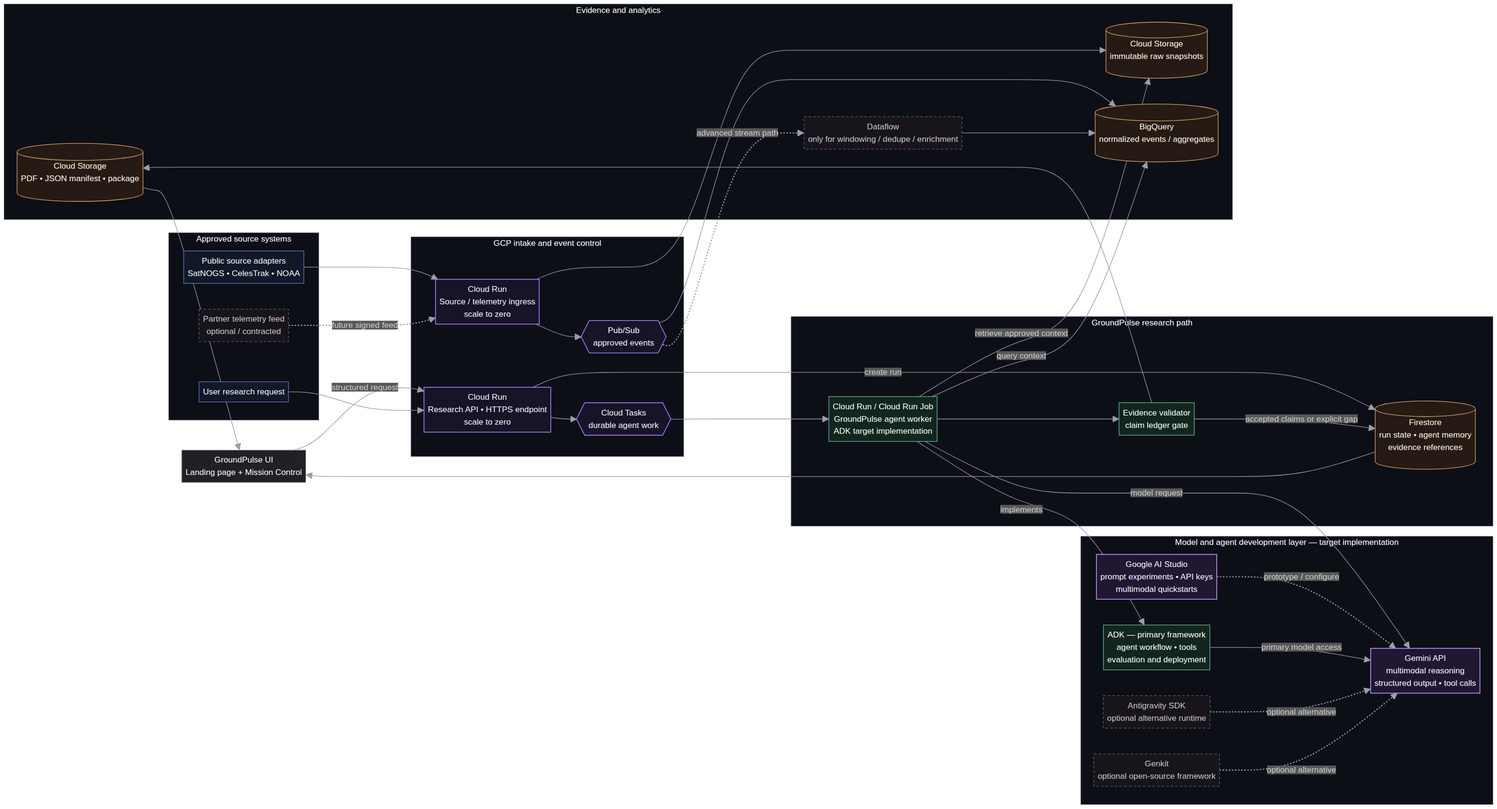
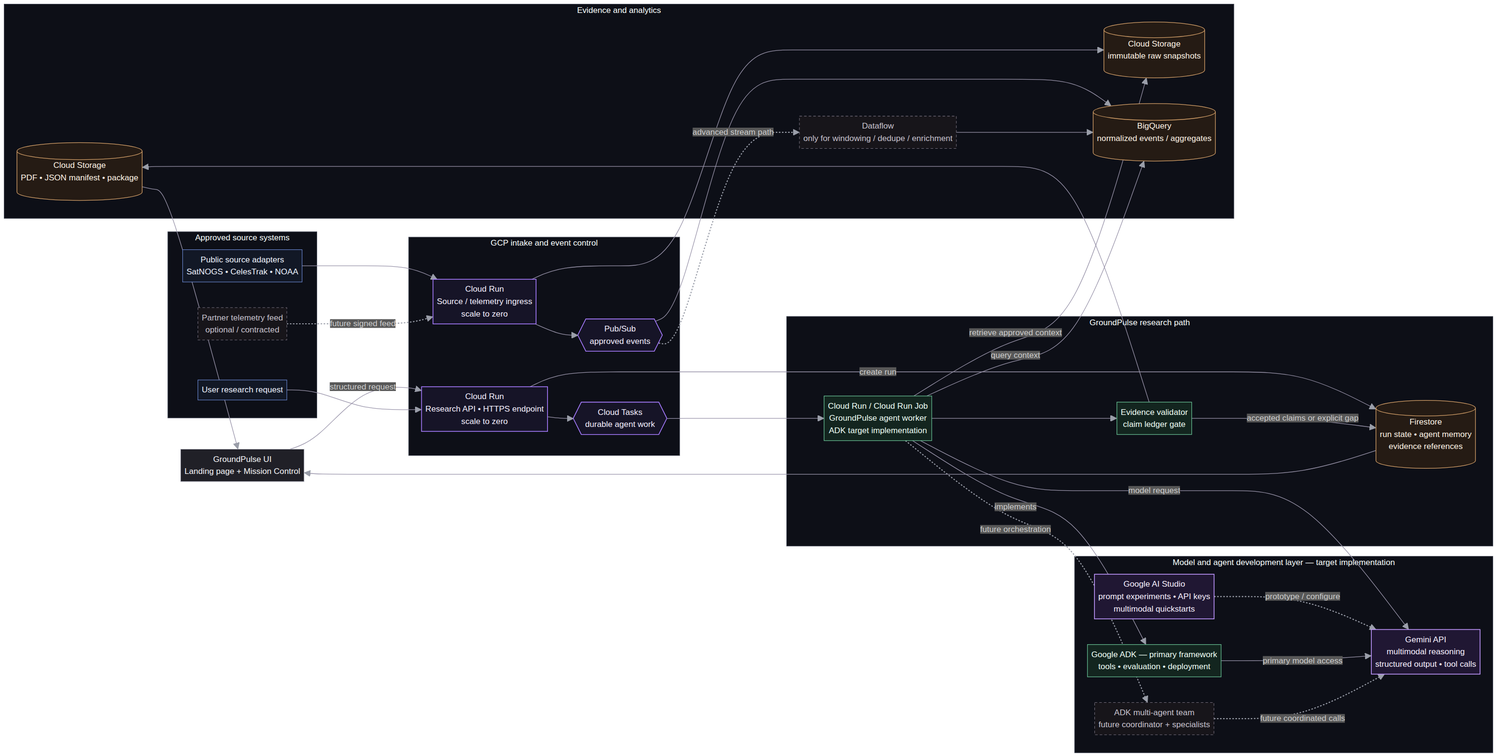
docs: make ADK the primary GroundPulse workflow

diff --git a/docs/SEPTEMBER_1_MVP_IMPLEMENTATION_PLAN.md b/docs/SEPTEMBER_1_MVP_IMPLEMENTATION_PLAN.md
@@ -1,41 +1,40 @@
-# GroundPulse: September 1 MVP Implementation Plan
+# GroundPulse: September 1 ADK MVP Implementation Plan
 
-**Status:** Deadline-focused implementation plan, not evidence of a deployed agent, live telemetry connection, or completed cloud run.  
-**Planning window:** August 16–September 1, 2026.  
-**Track:** All Things Agentic Hackathon — **Taskmaster**.  
-**Deadline handling:** This schedule uses the September 1 deadline supplied by the project owner. Confirm the Devpost submission timezone and closing hour directly in the event portal before the final upload.
+**Status:** Deadline-focused target plan. It is not evidence of a deployed agent, a live telemetry connection, or a completed cloud run.
+**Planning window:** August 16–September 1, 2026.
+**Track:** All Things Agentic Hackathon — **Taskmaster**.
 
-> **MVP principle:** Build one narrow, inspectable research run rather than a broad dashboard simulation. The run must either produce source-linked evidence and explicit gaps, or fail visibly. It must never manufacture a telemetry value, freshness timestamp, or claim.
+> **MVP principle:** Build one narrow, inspectable research run with **Google ADK**, Gemini API, and Google AI Studio. The run must either return source-linked evidence with explicit gaps or fail visibly; it must never invent a telemetry value, freshness timestamp, or operational claim.
 
-## 1. Deadline decision
+## 1. Locked framework path
 
-GroundPulse should use **Google AI Studio** to prototype prompts and manage the Gemini API key, then call the **Gemini API** through the current Interactions API for production-shaped experiments. Google documents AI Studio as the place to test prompts, manage API keys, monitor usage, and build prototypes; it recommends the Interactions API for current Gemini API features. [1]
+GroundPulse will use **Google AI Studio** for prompt tests, API-key management, and early model experimentation, and the **Gemini API** for model calls. Google identifies AI Studio as a workspace for testing prompts, managing keys, monitoring usage, and prototyping; its Gemini API documentation recommends the Interactions API for the latest features. [1] [2]
 
-For this deadline, the project should conduct a **time-boxed Antigravity proof** rather than implement several agent frameworks in parallel. Managed Agents in the Gemini API expose an Antigravity-powered agent harness with a remote environment, instructions, tools, and persistent environments; the Antigravity SDK is also documented as a programmatic Python option with lifecycle hooks and safety policies. [2] [3] The existing ADK architecture documentation remains a valid alternative, but **do not build ADK and Antigravity simultaneously before September 1**. The team should keep the framework that completes a source-linked end-to-end run by the Day 4 decision gate.
+**Google ADK is the sole primary agent framework for this MVP.** ADK is an open-source framework for building, evaluating, and deploying agents, with documented support for tools, structured workflows, Cloud Run deployment, and multi-agent composition. [3] [4] The first deadline run stays **single-agent plus deterministic validation**. A multi-agent team is a target expansion only after that baseline passes its evidence gates.
 
-| Layer | Deadline choice | What must be proven | What must not be claimed before proof |
+| Layer | September 1 choice | What must be proven | What must not be claimed before proof |
 |---|---|---|---|
-| Prompt and model experimentation | Google AI Studio + Gemini API | A saved prompt/test set returns a schema-conformant draft with cited input IDs and gaps. | That the model independently verifies factual claims. |
-| Agent runtime spike | Antigravity Managed Agent or Antigravity SDK | One controlled agent can execute the documented research instructions with restricted tools. | A production-grade autonomous fleet or unrestricted web access. |
-| Research API | Cloud Run | A deployed HTTPS endpoint creates a `run_id` and returns a status record. [4] | Continuous availability, an SLA, or a live stream. |
-| Run state | Firestore | The run state, evidence links, and artifact links survive a request boundary. [5] | Long-term source archive or analytical warehouse behavior. |
-| Evidence archive | Cloud Storage | Raw source snapshot and generated package are retained by URI and hash. | That an artifact is authoritative without a validation gate. |
-| Telemetry UI | Mission Control | The UI renders only source-provided timestamp, retrieval timestamp, freshness class, and validation state. | Live spacecraft or ground-station telemetry without an owned or contracted feed. |
+| Prompt and model experimentation | Google AI Studio + Gemini API | A versioned prompt/test set returns schema-conformant claim entries and gaps. | That the model independently verifies factual claims. |
+| Agent implementation | Google ADK | A bounded ADK research coordinator can invoke approved tools and return the required structure. | An autonomous multi-agent fleet or unrestricted web research. |
+| Run orchestration | ADK workflow plus deterministic validator | The agent hands a candidate ledger to a non-generative evidence gate. | That model output is automatically accepted as evidence. |
+| Research API | Cloud Run | A deployed HTTPS endpoint creates a `run_id` and returns state. [5] | Continuous availability, an SLA, or a live stream. |
+| Run state | Firestore | Run status, evidence links, and artifact links survive a request boundary. [6] | A raw source archive or analytical warehouse. |
+| Telemetry UI | Mission Control | The UI displays only source-provided time/state fields after a verified run. | Live spacecraft or ground-station telemetry without an owned or contracted feed. |
 
 ## 2. Minimum credible demo
 
-The end-to-end demonstration should be deliberately small. A user submits one bounded research question. The API creates a `run_id`; one approved public-source adapter retrieves and stores a source snapshot; the agent receives the approved context; the validator produces a claim ledger with source IDs or explicit gaps; and the system returns a JSON manifest plus a short research brief. The Mission Control interface may display the run only after the backend provides its real timestamps and state.
+The demonstration should be deliberately small. A user submits one bounded research question; the API creates a `run_id`; one approved public-source adapter stores a source snapshot; the ADK coordinator receives only the approved context; the validator emits a claim ledger with source IDs or explicit gaps; and the system returns a JSON manifest plus a short research brief. Mission Control may display values only after the backend provides real timestamps and state.
 
-The proof should start with **one source type**. CelesTrak GP/OMM context is a reasonable first candidate if the team can honor the provider's published access expectations and preserve source epoch/retrieval time; SatNOGS or NOAA SWPC can be added only after the first path works. [6] [7] [8]
+Start with **one source type**. CelesTrak GP/OMM context is a reasonable first candidate if the team preserves the published epoch and retrieval time while respecting provider expectations. SatNOGS or NOAA SWPC should be added only after the first path works. [7] [8] [9]
 
-| Required proof | Acceptance test | Evidence to retain for the demo |
+| Required proof | Acceptance test | Evidence retained for the demo |
 |---|---|---|
 | Request creation | `POST /runs` returns a generated `run_id`. | API response and Firestore record. |
-| Approved source snapshot | Adapter writes raw response, source URL, source timestamp where present, retrieval time, and hash. | Cloud Storage URI and manifest record. |
-| Agent invocation | Antigravity or Gemini interaction receives only the bounded prompt plus approved source context. | Interaction ID/log with secret values redacted. |
-| Evidence gate | Every output claim has source IDs, derivation inputs, or an explicit `gap` status. | Claim ledger JSON. |
-| Artifact package | Brief and manifest point to the same `run_id` and source snapshot IDs. | Downloadable files plus their hashes. |
-| Honest UI | Dashboard shows actual backend values for the demo run or remains labeled `Not connected`. | Screen recording of both states. |
+| Approved source snapshot | Adapter saves raw response, source URL, source timestamp where present, retrieval time, and hash. | Storage URI and manifest record. |
+| ADK invocation | Coordinator receives only the bounded question and approved context. | Redacted ADK trace and structured result. |
+| Evidence gate | Every output claim has source IDs, derivation inputs, or explicit `gap` status. | Claim ledger JSON. |
+| Artifact package | Brief and manifest point to the same `run_id` and snapshot IDs. | Downloadable files and hashes. |
+| Honest UI | Dashboard shows verified backend values or `Not connected`. | Recording of both states. |
 
 ## 3. Daily execution plan
 
@@ -43,51 +42,50 @@ Each day ends with a small artifact committed to GitHub or an explicit recorded 
 
 | Date | Primary task | Concrete deliverable by end of day | Validation gate |
 |---|---|---|---|
-| **Aug 16** | Freeze the smallest demo question and select **one** approved public source. Create a GCP project, billing budget alert, and separate development environment. | One-page scope; source license/access note; GitHub issue board. | The scope has a decision intent, time window, expected source, and a statement of what GroundPulse cannot conclude. |
-| **Aug 17** | In Google AI Studio, build three prompt variants for source-context extraction and claim-ledger JSON. Define the output schema. | Prompt test set, rubric, and JSON schema committed under `evals/`. | Each response either names source IDs/gaps or is rejected; no free-text “facts” are accepted. |
-| **Aug 18** | Create the first Gemini API smoke test using the Interactions API. Load the key through a secret mechanism—not client code or Git. | CLI/server smoke test plus redacted result. | A schema-valid response is reproduced from the committed test fixture. |
-| **Aug 19** | Build the Antigravity spike: use a single inline instruction or versioned `.agents/AGENTS.md` plus one source-policy skill. Keep tools allowlisted. [2] [3] | One successful Antigravity interaction and a short failure log. | **Decision gate:** continue only if the agent can run the test fixture with bounded tools and produce the required schema. |
-| **Aug 20** | If the Antigravity spike passes, create a managed agent configuration or SDK wrapper. If it fails because access, preview availability, or tool controls block the MVP, switch immediately to the documented ADK fallback and record the decision. | Architecture decision record (ADR) with an actual invocation result. | One framework only is selected for the deadline path. |
-| **Aug 21** | Implement the first source adapter and immutable snapshot contract. Store `source_url`, `source_event_at` when supplied, `retrieved_at`, payload hash, and freshness class. | Adapter test and example manifest. | The same source fixture replays without changing its snapshot hash. |
-| **Aug 22** | Create Firestore collections for `runs`, `evidence_refs`, and `artifacts`; write and read a run state through the backend. [5] | Firestore schema note and integration test. | A `run_id` can recover its state and links after process restart. |
-| **Aug 23** | Implement the Cloud Run Research API with `POST /runs` and `GET /runs/{id}`. Keep the service private or authenticated where possible. [4] | Local container and Cloud Run deployment proof. | A request returns a `run_id`; unauthenticated behavior is intentionally tested and documented. |
-| **Aug 24** | Connect the API to Cloud Tasks or an equivalent bounded background worker so source retrieval and agent execution do not block the user request. [9] | Queued run with retry/idempotency note. | Re-running the same request does not create duplicate source snapshots or duplicate claim IDs. |
-| **Aug 25** | Connect the selected agent runtime to the approved snapshot. Add system instructions that prohibit unsupported operational conclusions and require gaps. | Agent worker test against one stored snapshot. | Validator rejects a claim with no source ID or derivation record. |
-| **Aug 26** | Generate the first research package: claim ledger JSON, manifest JSON, and a minimal human-readable brief. | One package under a single `run_id`. | Every artifact references identical snapshot IDs and timestamps. |
-| **Aug 27** | Replace one Mission Control illustrative telemetry panel with backend-backed run state **only for the verified demo run**. Keep other panels marked illustrative. | UI integration branch and screen capture. | The UI labels freshness from backend fields; it does not show invented numerical telemetry. |
-| **Aug 28** | Add guardrails: source allowlist, request size limits, secret review, structured logs, error state, and cost caps. | Short security/cost checklist and error-path capture. | A failed adapter or agent call produces a visible `failed`/`gap` state rather than fabricated output. |
-| **Aug 29** | Perform a recorded dry run from fresh request to package. Capture cold-start and retry behavior. | Unedited local or Cloud Run screen recording; run manifest. | A second reviewer can inspect the source snapshot, state record, and ledger. |
-| **Aug 30** | Produce the final demo video and update README, architecture, implementation status, and Devpost draft. | Video draft, screenshots, command list, and known-limitations section. | Every spoken claim maps to a visible proof or is reframed as a target. |
-| **Aug 31** | Run regression tests, rotate/review keys if needed, record a clean final run, and create a release tag. | Final release candidate and reproducible setup note. | Another person can repeat the basic run using the documented environment variables. |
-| **Sep 1** | Verify the event cutoff time, submit the final video/repository links, and preserve the demo environment until submission confirmation. | Submission receipt or screenshot, final commit SHA, and release notes. | Do not claim submission success until the event portal confirms it. |
+| **Aug 16** | Freeze one demo question and select **one** approved public source. Create GCP project, budget alert, and source-use note. | One-page scope and GitHub issue board. | Scope has decision intent, time window, source, and non-claims. |
+| **Aug 17** | In Google AI Studio, create three extraction/claim-ledger prompt variants and a strict JSON schema. | Prompt fixtures, rubric, and schema in `evals/`. | Each response cites an input ID or emits a gap. |
+| **Aug 18** | Create the Gemini API smoke test through the Interactions API. Load the key only from a server-side secret mechanism. | Server/CLI smoke test and redacted result. | A schema-valid response reproduces from a committed fixture. |
+| **Aug 19** | Create the first **ADK research coordinator** with no external source access beyond a local fixture or approved function tool. | `research_coordinator` module and local run result. | The coordinator returns the schema and never creates unsourced claims. |
+| **Aug 20** | Add deterministic claim validation: source IDs, provenance fields, derivation inputs, and gaps are checked outside the model. | Validator unit tests and rejection examples. | A claim without evidence is blocked. |
+| **Aug 21** | Implement one source adapter and the immutable snapshot contract. | Adapter test and example manifest. | The same fixture replays with the same snapshot hash. |
+| **Aug 22** | Create Firestore collections for `runs`, `evidence_refs`, and `artifacts`; read and write state through backend code. [6] | Schema note and integration test. | A `run_id` recovers its state and links after restart. |
+| **Aug 23** | Implement Cloud Run `POST /runs` and `GET /runs/{id}` endpoints. Keep them private or authenticated where practical. [5] | Local container and Cloud Run deployment proof. | A request returns `run_id`; access behavior is documented. |
+| **Aug 24** | Add Cloud Tasks or a bounded background worker for source retrieval and ADK execution. [10] | Queued run and idempotency note. | Retrying does not duplicate snapshots or claim IDs. |
+| **Aug 25** | Connect the ADK coordinator to one approved stored snapshot and the deterministic validator. | Worker integration test. | Validator rejects a claim with no source ID or derivation record. |
+| **Aug 26** | Generate the first research package: claim ledger JSON, manifest JSON, and minimal human-readable brief. | One package under one `run_id`. | Artifacts reference identical snapshot IDs and timestamps. |
+| **Aug 27** | Replace one Mission Control illustrative panel with backend-backed state for the verified demo run only. | UI integration branch and recording. | UI shows backend freshness fields; no invented numerical telemetry. |
+| **Aug 28** | Record the **multi-agent target design**: coordinator, source specialist, evidence validator, and artifact assembler. Implement it only if the single-agent path has passed all gates. | ADR and component contracts. | No public claim that multi-agent execution exists without a recorded run. |
+| **Aug 29** | Add source allowlist, request limits, structured logs, error states, and cost caps. | Security/cost checklist and failure-path capture. | Failure produces `failed` or `gap`, never a fabricated result. |
+| **Aug 30** | Perform and record a full dry run from request to package. | Unedited screen recording and run manifest. | A second reviewer can inspect snapshot, state, and ledger. |
+| **Aug 31** | Produce the final video, update README/Devpost, review secrets, and create release candidate. | Video draft, command list, limitations, release commit. | Every spoken claim maps to visible proof or target wording. |
+| **Sep 1** | Confirm event cutoff time, submit final links, and retain the demo environment until submission confirmation. | Receipt/screenshot, final SHA, release notes. | Do not claim submission success until the portal confirms it. |
 
-## 4. Antigravity operating model for GroundPulse
+## 4. Future ADK multi-agent target
 
-The Antigravity proof should not start with a free-form autonomous researcher. Start with a single **Evidence Package Agent** that receives only: (1) the bounded question, (2) approved source records already saved by the adapter, (3) a strict JSON output schema, and (4) a small allowlist of tools. Google documents that a managed Antigravity agent can be customized at interaction time with system instructions, tools, and environment sources, then saved as a managed agent once the configuration is stable. [2]
+ADK supports multi-agent and multi-node workflows, including deterministic graph workflows, collaborative coordinator patterns, and template sequence/parallel flows. [3] This capability should improve specialization—not add novelty without evidence. GroundPulse's target team is therefore deliberately small:
 
-| Agent input | Agent responsibility | Hard boundary |
+| Future ADK role | Responsibility | Non-negotiable boundary |
 |---|---|---|
-| `question` | Restate scope and identify the requested decision context. | It cannot silently broaden the question. |
-| `approved_evidence[]` | Extract only what the stored records support. | It cannot call unapproved sources or present memory as evidence. |
-| `source_policy` | Apply source type, timestamp, license, and freshness rules. | It must write a gap when the record is missing or stale. |
-| `artifact_schema` | Return claim ledger entries, citations, derivations, and gaps. | It cannot return a final operational recommendation without review. |
+| **Research coordinator** | Owns the bounded question, selects the approved workflow path, and assembles the run. | Cannot accept a claim directly. |
+| **Source specialist** | Calls an approved adapter and records source URL, timestamps, license, and snapshot hash. | Cannot infer a mission condition from incomplete context. |
+| **Evidence validator** | Applies deterministic admission rules and classifies each entry as source-backed, derived, or gap. | Must block unsupported synthesis. |
+| **Artifact assembler** | Creates the brief and JSON manifest from already accepted ledger entries. | Cannot introduce new factual content. |
 
-> **Implementation note:** Google’s current examples use the managed-agent identifier `antigravity-preview-05-2026`. Preview product availability, agent identifiers, limits, and pricing can change; validate the exact model/agent entry in Google AI Studio on the day of implementation rather than hard-coding a promise into public materials. [2]
+The MVP should remain a coordinator plus deterministic validator until a full source-linked run is reproducible. If the multi-agent expansion is implemented after that point, use an ADK graph or controlled sequence so that the evidence validator remains a mandatory gate rather than an optional conversational handoff. [3] [4]
 
-## 5. Stop conditions and fallback rule
+## 5. Stop conditions
 
-The deadline plan must protect the demo. Stop adding scope when any of the following occurs: a real source adapter does not provide retainable provenance, the agent cannot be constrained to source-linked output, Firestore/Cloud Run deployment is not reproducible, or the UI begins to imply live telemetry without a feed. In those cases, preserve the research package workflow and show a visible `gap` or `not connected` state.
-
-If Antigravity cannot complete the Day 19–20 spike due to access or preview constraints, do **not** continue spending days on integration workarounds. Switch to the existing documented ADK path only after running a minimal local agent test and updating the architecture decision record. The submission should name the framework that actually produced the demo evidence—not every framework considered.
+Stop adding scope when a source adapter cannot retain provenance, the ADK coordinator cannot be constrained to source-linked output, Firestore/Cloud Run deployment is not reproducible, or the UI begins to imply live telemetry without a feed. In these cases, preserve the single-agent research package and surface a visible `gap` or `not connected` state.
 
 ## References
 
-[1]: [Gemini API documentation](https://ai.google.dev/gemini-api/docs)  
-[2]: [Building Managed Agents with Gemini API](https://ai.google.dev/gemini-api/docs/custom-agents)  
-[3]: [Google Antigravity documentation](https://antigravity.google/docs/home)  
-[4]: [Cloud Run documentation](https://docs.cloud.google.com/run/docs)  
-[5]: [Cloud Firestore documentation](https://firebase.google.com/docs/firestore)  
-[6]: [CelesTrak GP data formats and queries](https://celestrak.org/NORAD/documentation/gp-data-formats.php)  
-[7]: [SatNOGS Network API](https://docs.satnogs.org/projects/satnogs-network/en/latest/api.html)  
-[8]: [NOAA SWPC data access](https://www.spaceweather.gov/content/data-access)  
-[9]: [Cloud Run: executing asynchronous tasks](https://docs.cloud.google.com/run/docs/triggering/using-tasks)
+[1]: [Google AI Studio](https://aistudio.google.com)
+[2]: [Gemini API documentation](https://ai.google.dev/gemini-api/docs)
+[3]: [Google ADK workflows](https://adk.dev/workflows/)
+[4]: [Google ADK overview](https://adk.dev/)
+[5]: [Cloud Run documentation](https://docs.cloud.google.com/run/docs)
+[6]: [Cloud Firestore documentation](https://firebase.google.com/docs/firestore)
+[7]: [CelesTrak GP data formats and queries](https://celestrak.org/NORAD/documentation/gp-data-formats.php)
+[8]: [SatNOGS Network API](https://docs.satnogs.org/projects/satnogs-network/en/latest/api.html)
+[9]: [NOAA SWPC data access](https://www.spaceweather.gov/content/data-access)
+[10]: [Cloud Run: executing asynchronous tasks](https://docs.cloud.google.com/run/docs/triggering/using-tasks)

diff --git a/docs/GCP_REALTIME_INTEGRATION_PLAN.md b/docs/GCP_REALTIME_INTEGRATION_PLAN.md
@@ -12,7 +12,7 @@ GroundPulse should operate through two connected but logically separate paths. T
 | Decision area | Recommended approach | Reason |
 |---|---|---|
 | **Public-source freshness** | Label it **near-real-time** and expose a freshness badge. | Public providers publish at their own cadence. CelesTrak, for example, states that it checks for new GP data every two hours and asks clients not to poll more often. [9] |
-| **Model and agent framework** | Use **Gemini API** for model access, with **ADK** as the primary target framework. Use Google AI Studio for prompt/API prototyping. **Antigravity SDK** and **Genkit** are optional alternatives, not parallel MVP dependencies. | The agent implementation needs a deliberate model-to-runtime boundary; one primary framework keeps the first deployment and evaluation path reproducible. [11] [12] [13] |
+| **Model and agent framework** | Use **Gemini API** for model access, **Google AI Studio** for prompt/API prototyping, and **Google ADK** as the sole target framework. A multi-agent ADK composition is a later expansion after the single-agent evidence path is proven. | One primary framework keeps the first deployment and evaluation path reproducible; specialist agents add value only after the mandatory evidence gate is reliable. [11] [12] [13] [14] |
 | **Operational real-time** | Reserve this label for a customer-owned or partner-owned ground-station, payload, or mission feed with an explicit push contract. | This is the only case where the system can preserve an event timestamp close to the actual measurement time. |
 | **UI and mission state** | Use **Firestore** for small operational state, agent memory references, evidence links, and run status; keep raw source payloads and released artifacts immutable elsewhere. | Firestore is a managed document datastore appropriate for low-latency application state; it must not replace the raw evidence archive or analytical warehouse. [17] |
 | **Stream processing** | Start with direct analytical ingestion for independent events. Add Dataflow when event-time windows, joins, deduplication, or streaming enrichment are necessary. | Google Cloud supports direct Pub/Sub-to-BigQuery ingestion and positions Dataflow for more comprehensive streaming pipelines. [1] [5] |
@@ -31,9 +31,9 @@ The correct level of complexity depends on the feed GroundPulse actually owns or
 
 ![Target GroundPulse GCP integration architecture](../assets/diagrams/groundpulse-gcp-integration-architecture.png)
 
-> **Target architecture, not a deployment claim.** The diagram distinguishes the implemented UI prototype from planned GCP services. **Gemini API, Google AI Studio, ADK, Cloud Run, and Firestore are target MVP components.** Antigravity SDK, Genkit, partner telemetry, and advanced Dataflow are intentionally marked as optional until a technical choice, source contract, authorization, and end-to-end test exist.
+> **Target architecture, not a deployment claim.** The diagram distinguishes the implemented UI prototype from planned GCP services. **Gemini API, Google AI Studio, Google ADK, Cloud Run, and Firestore are target MVP components.** The ADK multi-agent team, partner telemetry, and advanced Dataflow paths remain future extensions until a single-agent run, source contract, authorization, and end-to-end test exist.
 
-The editable Mermaid source is available at [docs/diagrams/gcp_integration_architecture.mmd](diagrams/gcp_integration_architecture.mmd). The first MVP path is **UI request → Cloud Run API → Cloud Tasks → ADK worker on Cloud Run → Gemini API → evidence validator → immutable package**, with Firestore holding small run-state and agent-memory references. The streaming path is added only when a real source requires it.
+The editable Mermaid source is available at [docs/diagrams/gcp_integration_architecture.mmd](diagrams/gcp_integration_architecture.mmd). The first MVP path is **UI request → Cloud Run API → Cloud Tasks → Google ADK worker on Cloud Run → Gemini API → deterministic evidence validator → immutable package**, with Firestore holding small run-state and agent-memory references. An ADK coordinator-plus-specialist team is added only after this single-agent evidence path is reproducible.
 
 ```mermaid
 flowchart LR
@@ -52,9 +52,8 @@ flowchart LR
   subgraph Models[Model and agent development layer — target]
     G[Google AI Studio\nprompt experiments + API keys]
     H[Gemini API\nmultimodal reasoning + tool calls]
-    I[ADK — primary\nagent workflow + evaluation]
-    J[Antigravity SDK — optional]
-    K[Genkit — optional]
+    I[Google ADK — primary\ntools + evaluation + deployment]
+    J[ADK multi-agent team — future\ncoordinator + specialists]
   end
 
   subgraph Agent[GroundPulse research path]
@@ -81,9 +80,9 @@ flowchart LR
   F -. advanced path .-> P --> Q
   G -. prototype / configure .-> H
   I --> H
-  J -. optional alternative .-> H
-  K -. optional alternative .-> H
+  J -. future coordinated calls .-> H
   L --> I
+  L -. future orchestration .-> J
   L --> H
   L --> O
   L --> Q
@@ -93,7 +92,7 @@ flowchart LR
   R --> S
 ```
 
-Gemini API is the target model-access layer for multimodal research reasoning, structured output, and controlled tool use; Google AI Studio is the corresponding workspace for prompt experimentation, API-key management, and early prototypes. [11] [12] **ADK is GroundPulse's primary framework choice** for the first agent implementation and its evaluation/deployment workflow. [13] **Antigravity SDK** and **Genkit** remain clearly optional framework alternatives; the project will select only one runtime path for the MVP rather than combine frameworks without a tested need. [14] [15]
+Gemini API is the target model-access layer for multimodal research reasoning, structured output, and controlled tool use; Google AI Studio is the corresponding workspace for prompt experimentation, API-key management, and early prototypes. [11] [12] **Google ADK is GroundPulse's sole primary framework choice** for the first agent implementation and its evaluation/deployment workflow. [13] An ADK coordinator-plus-specialist team is a future composition pattern; it is not a connected or implemented multi-agent capability in the current prototype. [14]
 
 Pub/Sub is the event bus because it decouples event producers from consumers and distributes events asynchronously; Google describes it as a scalable messaging service for streaming analytics and service integration, with typical latency on the order of hundreds of milliseconds. [1] Cloud Run hosts the intake and Research Agent APIs as HTTPS-invocable container services; its scale-to-zero configuration is a cost-control target, not an uptime guarantee. [3] [4] [16] Cloud Tasks isolates slow or rate-limited background work from the user request path and supports authenticated HTTPS invocation with OIDC. [3]
 
@@ -151,7 +150,7 @@ For the first MVP, write simple events to BigQuery and retain raw snapshots in C
 
 The Research API receives a structured scope, object or location, time window, and decision intent. It writes the initial run-state document to **Firestore** and enqueues background work. The Cloud Run agent worker is a target deployment for the **ADK** implementation; it calls the **Gemini API** only after it has assembled a bounded, approved evidence context. **Google AI Studio** is used before deployment to prototype prompts and manage API access, rather than as a substitute for the production worker. [11] [12] [13] [17]
 
-Cloud Tasks is appropriate for rate-limiting third-party source calls, preserving queued work through incidents, and keeping slow agent operations out of a user-facing request; Google documents this pattern for private Cloud Run services with OIDC authentication. [3] Antigravity SDK and Genkit are documented optional alternatives for later comparison, but they are not presented as implemented, connected, or required for the Taskmaster MVP. [14] [15]
+Cloud Tasks is appropriate for rate-limiting third-party source calls, preserving queued work through incidents, and keeping slow agent operations out of a user-facing request; Google documents this pattern for private Cloud Run services with OIDC authentication. [3] A future ADK multi-agent composition must retain the same validator boundary: specialist work may provide evidence candidates, but a deterministic claim gate decides what is eligible for release. [14]
 
 The agent worker must not issue a final claim until the validator has accepted source-backed evidence or recorded a derivation whose inputs are retained. A completed run produces the following package.
 
@@ -197,7 +196,7 @@ Before this plan becomes Terraform and deployed services, select the initial dat
 
 ## 10. September 1 implementation sprint
 
-The deadline-focused sequence is documented in [September 1 MVP Implementation Plan](SEPTEMBER_1_MVP_IMPLEMENTATION_PLAN.md). It uses Google AI Studio for prompt/key prototyping, Gemini API for model calls, and a time-boxed Antigravity proof before committing to a single runtime implementation. This sprint does **not** change the current target diagram or claim that Antigravity has been integrated; it records a decision gate that must be passed with an actual source-linked run before the public architecture is revised. [11] [12] [14]
+The deadline-focused sequence is documented in [September 1 ADK MVP Implementation Plan](SEPTEMBER_1_MVP_IMPLEMENTATION_PLAN.md). It uses Google AI Studio for prompt/key prototyping, Gemini API for model calls, and Google ADK as the single implementation framework. The plan treats an ADK multi-agent team as a later decision gate that requires an actual source-linked run before the public architecture is expanded. [11] [12] [13] [14]
 
 ## References
 
@@ -214,7 +213,6 @@ The deadline-focused sequence is documented in [September 1 MVP Implementation P
 [11]: [Gemini API documentation](https://ai.google.dev/gemini-api/docs)
 [12]: [Google AI Studio](https://aistudio.google.com)
 [13]: [Agent Development Kit (ADK)](https://adk.dev/)
-[14]: [Google Antigravity SDK](https://antigravity.google/docs/sdk/overview)
-[15]: [Genkit overview](https://genkit.dev/docs/js/overview/)
+[14]: [Google ADK workflows](https://adk.dev/workflows/)
 [16]: [Cloud Run documentation](https://docs.cloud.google.com/run/docs)
 [17]: [Cloud Firestore documentation](https://firebase.google.com/docs/firestore)

diff --git a/docs/ALL_THINGS_AGENTIC_HACKATHON.md b/docs/ALL_THINGS_AGENTIC_HACKATHON.md
@@ -17,7 +17,7 @@ The Taskmaster track asks for a complete workflow in which an agent takes action
 | Select one official track | **Taskmaster** is named in the README, submission document, metadata, and operating model. | Select Taskmaster in Devpost. |
 | Show an autonomous, action-taking workflow | Event routing, evidence gates, acceptance criteria, and UI flows are documented; the UI is interactive local state. | Implement and demonstrate a real trigger, worker route, adapter action, and output package. |
 | Use Gemini 3.5 or newer | No current runtime claim. | Integrate Gemini 3.5+ through Gemini API or Vertex AI and record the integration. |
-| Use a Google Agent Framework | No current runtime claim. | Implement at least one approved framework, such as ADK, GenAI SDK, Antigravity SDK, or Genkit. |
+| Use a Google Agent Framework | No current runtime claim. | Implement the selected Google ADK path with Gemini API; add the framework claim only after a verified run. |
 | Use Google Cloud infrastructure | Target GCP architecture and integration plan are documented. | Deploy and demonstrate at least one Google Cloud service, such as Cloud Run, Pub/Sub, or Firestore. |
 | Provide a code repository and architecture diagram | This repository, implementation plan, task system, GCP plan, and architecture diagram are present. | Keep the repository reproducible and align code with the deployment used in the demo. |
 | Provide a demo video | UI/UX is externally accessible; no video is included. | Record a concise, unedited demonstration showing the backend running on Google Cloud and the end-to-end Taskmaster loop. |

diff --git a/docs/README.md b/docs/README.md
@@ -11,7 +11,7 @@ This directory separates **implemented prototype documentation** from **target a
 | [Taskmaster Operating Model](TASKMASTER_OPERATING_MODEL.md) | Trigger, routing, tool, evidence-gate, and human-review model. | Target design. |
 | [Architecture](ARCHITECTURE.md) | Core component boundaries and target GCP mapping. | Target design. |
 | [GCP Real-Time Integration Plan](GCP_REALTIME_INTEGRATION_PLAN.md) | GCP services, event contract, security, observability, and rollout. | Target design. |
-| [September 1 MVP Implementation Plan](SEPTEMBER_1_MVP_IMPLEMENTATION_PLAN.md) | Daily delivery plan for the Gemini API, Google AI Studio, Antigravity proof, Cloud Run, Firestore, and submission evidence. | Deadline-focused target plan. |
+| [September 1 ADK MVP Implementation Plan](SEPTEMBER_1_MVP_IMPLEMENTATION_PLAN.md) | Daily delivery plan for Google ADK, Gemini API, Google AI Studio, Cloud Run, Firestore, and the future multi-agent decision gate. | Deadline-focused target plan. |
 | [GCP Integration Architecture Diagram](diagrams/gcp_integration_architecture.mmd) | Editable target architecture source; its rendered PNG is embedded in the GCP plan. | Target design. |
 | [Implementation Plan](IMPLEMENTATION_PLAN.md) | Milestones, workstreams, and release gates. | Planned delivery. |
 | [Task Backlog](TASKS.md) | Acceptance-oriented task IDs and their current status. | Active backlog. |
